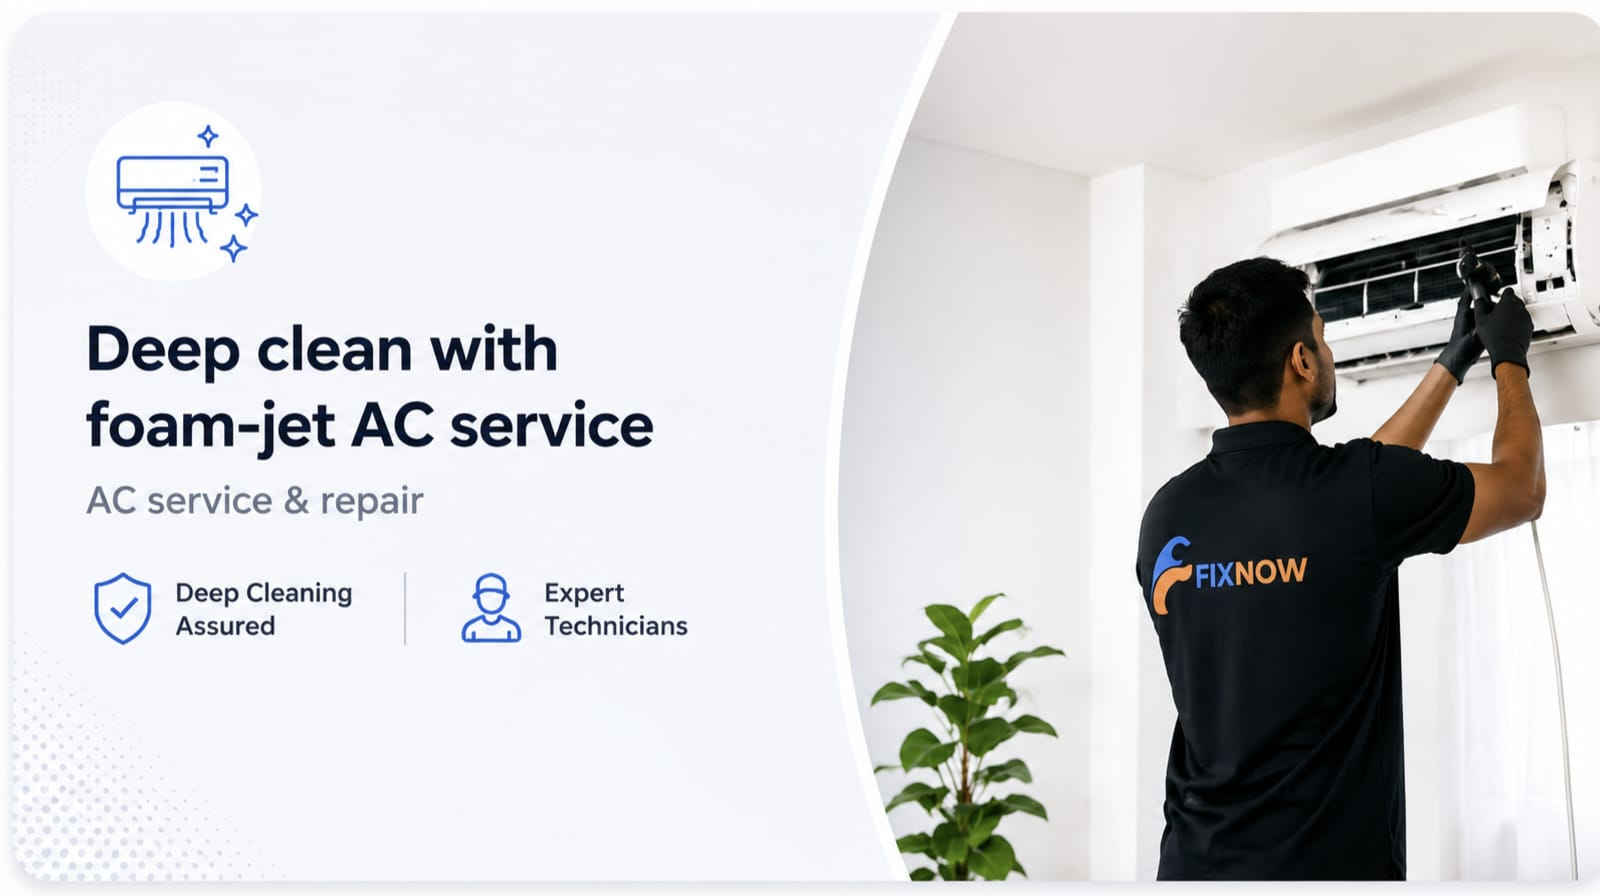
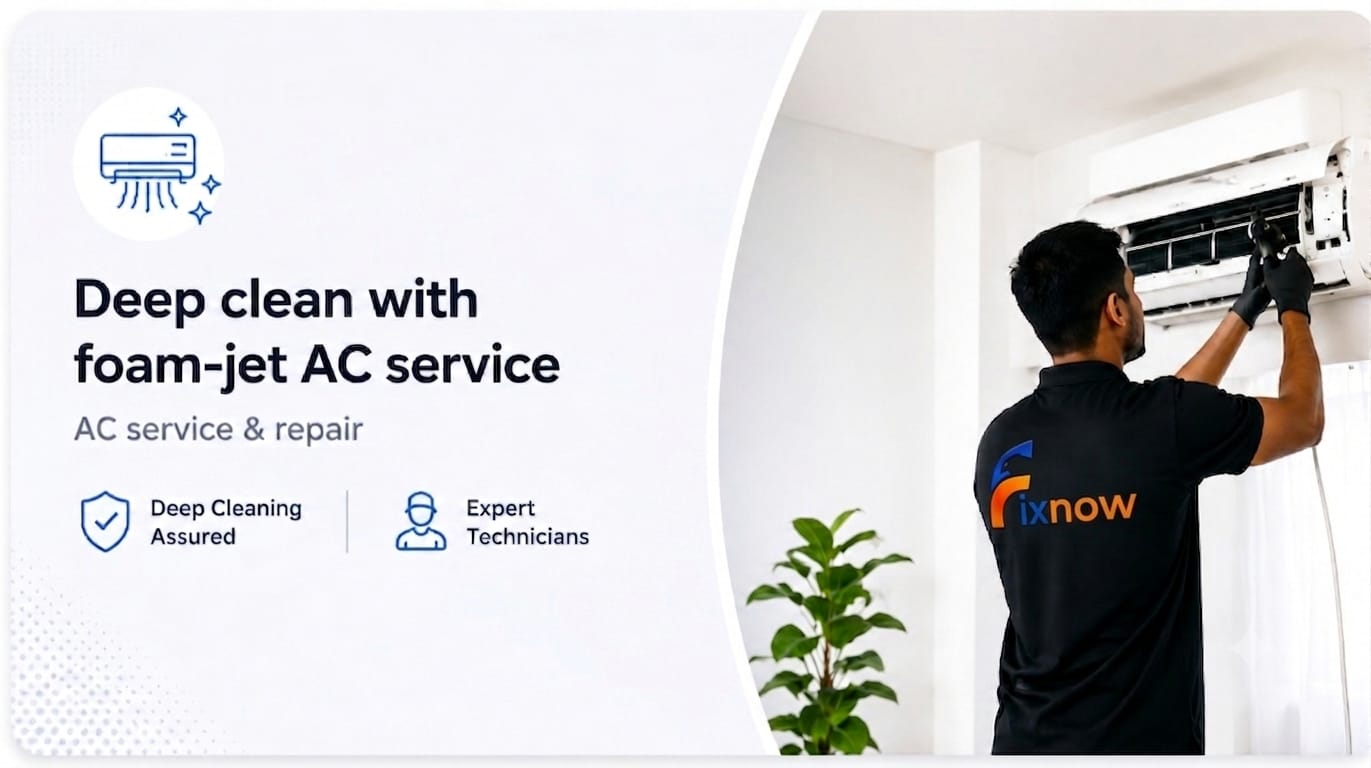
Updated website

diff --git a/index.html b/index.html
@@ -1363,14 +1363,14 @@
       <label>Service Needed</label>
       <select id="qService">
         <option value="">Choose a service…</option>
-        <option>AC Repair & Cleaning</option>
+        <opyion>AC General Service</opyion>
+        <option>AC Jet Wash</option>
+        <option>AC Full Service</option>
         <option>AC Installation</option>
         <option>Washing Machine Repair</option>
         <option>Refrigerator Service</option>
         <option>Water Heater Repair</option>
         <option>RO Water Purifier</option>
-        <option>Electrical Services</option>
-        <option>Microwave Repair</option>
       </select>
     </div>
     <div class="form-row">
@@ -1663,7 +1663,7 @@
 <div class="trust-strip">
   <div class="trust-inner">
     <div class="trust-item">
-      <span class="trust-num"><span class="counter" data-target="6500">0</span><span class="sup">+</span></span>
+      <span class="trust-num"><span class="counter" data-target="10000">0</span><span class="sup">+</span></span>
       <div class="trust-label">Happy Customers</div>
     </div>
     <div class="trust-item">
@@ -1671,7 +1671,7 @@
       <div class="trust-label">Years Experience</div>
     </div>
     <div class="trust-item">
-      <span class="trust-num"><span class="counter" data-target="50">0</span><span class="sup">+</span></span>
+      <span class="trust-num"><span class="counter" data-target="60">0</span><span class="sup">+</span></span>
       <div class="trust-label">Certified Technicians</div>
     </div>
     <div class="trust-item">
@@ -1738,21 +1738,21 @@
       <div class="pop-card reveal" style="transition-delay:.1s">
         <div class="pop-img" style="background:linear-gradient(135deg,#EFF4FF,#DBEAFE)">
            <img src="ac-repair-service-pop.jpeg" alt="AC Repair">
-          <span class="pop-img-badge">⚡ Same Day</span>
+          <span class="pop-img-badge">⚡Top Most Booked</span>
         </div>
         <div class="pop-body">
           <h3>AC Repair & Service</h3>
           <p>Gas refill, cooling issues, PCB problems, compressor service — all brands covered. Samsung, LG, Daikin, Voltas & more.</p>
           <div class="pop-meta">
             <div class="pop-price">₹299 <span>onwards</span></div>
-            <div class="pop-rating"><svg viewBox="0 0 24 24"><polygon points="12 2 15.09 8.26 22 9.27 17 14.14 18.18 21.02 12 17.77 5.82 21.02 7 14.14 2 9.27 8.91 8.26 12 2"/></svg> 4.9 (820 reviews)</div>
+            <div class="pop-rating"><svg viewBox="0 0 24 24"><polygon points="12 2 15.09 8.26 22 9.27 17 14.14 18.18 21.02 12 17.77 5.82 21.02 7 14.14 2 9.27 8.91 8.26 12 2"/></svg> 4.9 (1180 reviews)</div>
           </div>
           <button class="pop-cta" onclick="openPopup()">Book Now →</button>
         </div>
       </div>
       <div class="pop-card reveal" style="transition-delay:.2s">
         <div class="pop-img" style="background:linear-gradient(135deg,#F5F0FF,#EDE9FE)">
-           <img src="washing-machine-pop.png" alt="AC Repair">
+           <img src="washing-machine-pop.jpeg" alt="AC Repair">
           <span class="pop-img-badge">Most Booked</span>
         </div>
         <div class="pop-body">
@@ -1760,7 +1760,7 @@
           <p>Not draining, drum issues, motor problems, error codes — front load, top load, semi-automatic. All brands serviced.</p>
           <div class="pop-meta">
             <div class="pop-price">₹299 <span>onwards</span></div>
-            <div class="pop-rating"><svg viewBox="0 0 24 24"><polygon points="12 2 15.09 8.26 22 9.27 17 14.14 18.18 21.02 12 17.77 5.82 21.02 7 14.14 2 9.27 8.91 8.26 12 2"/></svg> 4.8 (640 reviews)</div>
+            <div class="pop-rating"><svg viewBox="0 0 24 24"><polygon points="12 2 15.09 8.26 22 9.27 17 14.14 18.18 21.02 12 17.77 5.82 21.02 7 14.14 2 9.27 8.91 8.26 12 2"/></svg> 4.8 (820 reviews)</div>
           </div>
           <button class="pop-cta" onclick="openPopup()">Book Now →</button>
         </div>
@@ -1775,14 +1775,14 @@
           <p>Not cooling, ice maker issues, water dispenser problems, compressor service. Single door, double door, side-by-side.</p>
           <div class="pop-meta">
             <div class="pop-price">₹349 <span>onwards</span></div>
-            <div class="pop-rating"><svg viewBox="0 0 24 24"><polygon points="12 2 15.09 8.26 22 9.27 17 14.14 18.18 21.02 12 17.77 5.82 21.02 7 14.14 2 9.27 8.91 8.26 12 2"/></svg> 4.9 (510 reviews)</div>
+            <div class="pop-rating"><svg viewBox="0 0 24 24"><polygon points="12 2 15.09 8.26 22 9.27 17 14.14 18.18 21.02 12 17.77 5.82 21.02 7 14.14 2 9.27 8.91 8.26 12 2"/></svg> 4.9 (648 reviews)</div>
           </div>
           <button class="pop-cta" onclick="openPopup()">Book Now →</button>
         </div>
       </div>
       <div class="pop-card reveal" style="transition-delay:.1s">
         <div class="pop-img" style="background:linear-gradient(135deg,#FFFBEB,#FEF3C7)">
-           <img src="water-heater-pop.png" alt="Water Heater">
+           <img src="water-heater-pop.jpeg" alt="Water Heater">
         </div>
         <div class="pop-body">
           <h3>Water Heater Repair</h3>
@@ -1796,7 +1796,7 @@
       </div>
       <div class="pop-card reveal" style="transition-delay:.2s">
         <div class="pop-img" style="background:linear-gradient(135deg,#FFF0EB,#FFE4D6)">
-          <img src="ro-water-purifier-pop.png" alt="RO Purifier">
+          <img src="ro-water-purifier-pop.jpeg" alt="RO Purifier">
         </div>
         <div class="pop-body">
           <h3>RO Water Purifier</h3>
@@ -1810,7 +1810,7 @@
       </div>
       <div class="pop-card reveal" style="transition-delay:.3s">
         <div class="pop-img" style="background:linear-gradient(135deg,#FFF0F0,#FFE4E4)">
-            <img src="ac-jet-wash-pop.png" alt="AC Jet Wash">
+            <img src="ac-jet-wash-pop.jpeg" alt="AC Jet Wash">
         </div>
         <div class="pop-body">
           <h3>AC Jet wash </h3>
@@ -1978,10 +1978,10 @@ Includes cooling check.</p>
         <div class="plan-price"><small>₹</small>249</div>
         <div class="plan-desc">Per visit for a single appliance. Pay only after you approve the quote.</div>
         <div class="plan-features">
-          <div class="plan-feat"><svg viewBox="0 0 24 24"><path d="M22 11.08V12a10 10 0 1 1-5.93-9.14"/><polyline points="22 4 12 14.01 9 11.01"/></svg> Free Diagnosis</div>
-          <div class="plan-feat"><svg viewBox="0 0 24 24"><path d="M22 11.08V12a10 10 0 1 1-5.93-9.14"/><polyline points="22 4 12 14.01 9 11.01"/></svg> 30-Day Warranty</div>
-          <div class="plan-feat"><svg viewBox="0 0 24 24"><path d="M22 11.08V12a10 10 0 1 1-5.93-9.14"/><polyline points="22 4 12 14.01 9 11.01"/></svg> Certified Technician</div>
-          <div class="plan-feat"><svg viewBox="0 0 24 24"><path d="M22 11.08V12a10 10 0 1 1-5.93-9.14"/><polyline points="22 4 12 14.01 9 11.01"/></svg> WhatsApp Support</div>
+          <div class="plan-feat"><svg viewBox="0 0 24 24"><path d="M22 11.08V12a10 10 0 1 1-5.93-9.14"/><polyline points="22 4 12 14.01 9 11.01"/></svg> checking AC Condition</div>
+          <div class="plan-feat"><svg viewBox="0 0 24 24"><path d="M22 11.08V12a10 10 0 1 1-5.93-9.14"/><polyline points="22 4 12 14.01 9 11.01"/></svg> Filter cleaning</div>
+          <div class="plan-feat"><svg viewBox="0 0 24 24"><path d="M22 11.08V12a10 10 0 1 1-5.93-9.14"/><polyline points="22 4 12 14.01 9 11.01"/></svg> Indoor Coil Dry Cleaning</div>
+          <div class="plan-feat"><svg viewBox="0 0 24 24"><path d="M22 11.08V12a10 10 0 1 1-5.93-9.14"/><polyline points="22 4 12 14.01 9 11.01"/></svg> Cooling Performance Checking</div>
         </div>
         <button class="plan-btn plan-btn-outline" onclick="openPopup()">Book This Plan</button>
       </div>
@@ -2005,7 +2005,7 @@ Includes cooling check.</p>
         <div class="plan-desc">Best value AC service with complete inspection and advanced jet wash cleaning,
 Includes cooling check, deep cleaning, and performance optimization for better efficiency..</div>
         <div class="plan-features">
-          <div class="plan-feat"><svg viewBox="0 0 24 24"><path d="M22 11.08V12a10 10 0 1 1-5.93-9.14"/><polyline points="22 4 12 14.01 9 11.01"/></svg> Unlimited Free Service Calls</div>
+          <div class="plan-feat"><svg viewBox="0 0 24 24"><path d="M22 11.08V12a10 10 0 1 1-5.93-9.14"/><polyline points="22 4 12 14.01 9 11.01"/></svg> Full service of indoor & Outdoor</div>
           <div class="plan-feat"><svg viewBox="0 0 24 24"><path d="M22 11.08V12a10 10 0 1 1-5.93-9.14"/><polyline points="22 4 12 14.01 9 11.01"/></svg> Complete AC Health Inspection</div>
           <div class="plan-feat"><svg viewBox="0 0 24 24"><path d="M22 11.08V12a10 10 0 1 1-5.93-9.14"/><polyline points="22 4 12 14.01 9 11.01"/></svg> Deep Cleaning</div>
           <div class="plan-feat"><svg viewBox="0 0 24 24"><path d="M22 11.08V12a10 10 0 1 1-5.93-9.14"/><polyline points="22 4 12 14.01 9 11.01"/></svg> 
@@ -2520,7 +2520,7 @@ Cooling Efficiency Testing</div>
 
   /* ════ QUICK QUOTE FORM → GOOGLE SHEET ════ */
   // PASTE your Google Apps Script Web App URL below (see setup guide).
-  const QUOTE_SHEET_URL = "https://script.google.com/macros/s/AKfycbwqmR-kETEiYdYhEjE_Ktv1079ZYwdBjqciOu027awlCLtzDO984tFt-_NlGJJM_RJnQg/exec";
+  const QUOTE_SHEET_URL = "https://script.google.com/macros/s/AKfycbz5nt6URbF-a8LfvhMzYBUk0hlGAQmjNl0eQW1QCgbqB-NYEl7Mny2GfYPlVggwPW8A/exec";
 
   function submitQuote() {
     const name    = document.getElementById('qName').value.trim();
@@ -2600,7 +2600,7 @@ Cooling Efficiency Testing</div>
 
     // We can't read the iframe's cross-origin response, so we optimistically confirm.
     setTimeout(() => {
-      const referralResult = saveBookingRecord({ name, phone, service, time, address, referralCode });
+      const referralResult = applyReferralIfAny({ phone, referralCode });
       status.textContent = referralResult
         ? '✅ Thank you! ₹100 referral discount applied. Our team will call you in 15 minutes. ☎'
         : '✅ Thank you! Our team will call you in 15 minutes. ☎';
@@ -2625,16 +2625,13 @@ Cooling Efficiency Testing</div>
   }
 </script>
 <script>
-  /* ════ SERVICE HISTORY + REFERRAL PROGRAM (localStorage-backed) ════ */
-  const BOOKINGS_KEY = 'fixnow_bookings';
+  /* ════ SERVICE HISTORY (Google Sheet-backed) + REFERRAL PROGRAM (localStorage-backed) ════ */
   const REFERRALS_KEY = 'fixnow_referral_data';
   let acctCurrentPhone = null;
+  let acctBookings = [];   // filled by fetchAccountBookings() — real data from the Sheet, not localStorage
 
   function normPhone(p) { return (p || '').replace(/\D/g, '').slice(-10); }
 
-  function loadBookings() {
-    try { return JSON.parse(localStorage.getItem(BOOKINGS_KEY)) || []; } catch (e) { return []; }
-  }
   function loadReferrals() {
     try { return JSON.parse(localStorage.getItem(REFERRALS_KEY)) || {}; } catch (e) { return {}; }
   }
@@ -2645,19 +2642,9 @@ Cooling Efficiency Testing</div>
     return 'FN' + (n ? n.slice(-4) : '0000');
   }
 
-  // Saves a booking to local history and applies a referral code if valid. Returns true if a discount was applied.
-  function saveBookingRecord({ name, phone, service, time, address, referralCode }) {
-    const bookings = loadBookings();
-    const bookedAt = new Date();
-    const warrantyUntil = new Date(bookedAt.getTime() + 90 * 24 * 60 * 60 * 1000);
-    bookings.unshift({
-      id: 'bk_' + Date.now(),
-      name, phone: normPhone(phone), service, time, address,
-      bookedAt: bookedAt.toISOString(),
-      warrantyUntil: warrantyUntil.toISOString()
-    });
-    localStorage.setItem(BOOKINGS_KEY, JSON.stringify(bookings));
-
+  // Applies a referral discount if the code is valid. Returns true if applied.
+  // (Actual booking history no longer lives in localStorage — it's fetched live from the Sheet.)
+  function applyReferralIfAny({ phone, referralCode }) {
     let discountApplied = false;
     const myPhone = normPhone(phone);
     const myCode = referralCodeFor(myPhone);
@@ -2666,7 +2653,6 @@ Cooling Efficiency Testing</div>
       if (!referrals[myPhone]) referrals[myPhone] = { referredCount: 0, redeemedCode: null };
       if (!referrals[myPhone].redeemedCode) {
         referrals[myPhone].redeemedCode = referralCode;
-        // Credit whoever owns that code, if we can find them among known accounts
         Object.keys(referrals).forEach(p => {
           if (referralCodeFor(p) === referralCode) {
             referrals[p].referredCount = (referrals[p].referredCount || 0) + 1;
@@ -2676,7 +2662,6 @@ Cooling Efficiency Testing</div>
         discountApplied = true;
       }
     }
-    // Ensure this phone has a referral record even with no redemption
     const referrals2 = loadReferrals();
     if (!referrals2[myPhone]) { referrals2[myPhone] = { referredCount: 0, redeemedCode: null }; saveReferrals(referrals2); }
     return discountApplied;
@@ -2690,10 +2675,20 @@ Cooling Efficiency Testing</div>
   }
   function switchAccount() {
     acctCurrentPhone = null;
+    acctBookings = [];
     document.getElementById('acctDashboard').style.display = 'none';
     document.getElementById('acctLookupStep').style.display = 'block';
     document.getElementById('acctPhone').value = '';
     document.getElementById('acctLookupMsg').textContent = '';
+  }
+
+  // Fetches this phone number's real bookings from the Google Sheet via the Apps Script doGet endpoint.
+  function fetchAccountBookings(phone) {
+    const url = QUOTE_SHEET_URL + '?phone=' + encodeURIComponent(phone);
+    return fetch(url).then(r => {
+      if (!r.ok) throw new Error('bad response');
+      return r.json();
+    });
   }
 
   function lookupAccount() {
@@ -2704,10 +2699,20 @@ Cooling Efficiency Testing</div>
       msg.style.color = '#C43F0E';
       return;
     }
-    acctCurrentPhone = phone;
-    document.getElementById('acctLookupStep').style.display = 'none';
-    document.getElementById('acctDashboard').style.display = 'block';
-    switchAccountTab('history');
+    msg.textContent = 'Looking up your bookings…';
+    msg.style.color = 'var(--text-muted)';
+
+    fetchAccountBookings(phone).then(data => {
+      acctCurrentPhone = phone;
+      acctBookings = Array.isArray(data) ? data : [];
+      msg.textContent = '';
+      document.getElementById('acctLookupStep').style.display = 'none';
+      document.getElementById('acctDashboard').style.display = 'block';
+      switchAccountTab('history');
+    }).catch(() => {
+      msg.textContent = '⚠ Could not reach FixNow servers — check your connection and try again.';
+      msg.style.color = '#C43F0E';
+    });
   }
 
   function switchAccountTab(tab) {
@@ -2723,9 +2728,10 @@ Cooling Efficiency Testing</div>
   }
 
   function buildReminderBanner(mine, now) {
-    // Reminder 1: warranty expiring within 14 days
+    // Reminder 1: warranty expiring within 14 days (only completed jobs have a warrantyTill at all)
     const soonExpiring = mine
-      .map(b => ({ b, warrantyDate: new Date(b.warrantyUntil) }))
+      .filter(b => b.warrantyTill)
+      .map(b => ({ b, warrantyDate: new Date(b.warrantyTill) }))
       .filter(x => x.warrantyDate > now && (x.warrantyDate - now) < 14 * 24 * 60 * 60 * 1000)
       .sort((a, c) => a.warrantyDate - c.warrantyDate)[0];
 
@@ -2751,7 +2757,7 @@ Cooling Efficiency Testing</div>
 
   function renderHistory() {
     const box = document.getElementById('tabHistory');
-    const mine = loadBookings().filter(b => b.phone === acctCurrentPhone);
+    const mine = acctBookings;
     if (!mine.length) {
       box.innerHTML = '<div class="acct-empty">No bookings yet under this number.<br>Book your first service to see it here!<br>' +
         '<button class="form-submit" style="margin-top:14px;width:auto;padding:10px 22px" onclick="closeAccountPanel();openPopup()">Book a Service</button></div>';
@@ -2760,16 +2766,28 @@ Cooling Efficiency Testing</div>
     const now = new Date();
     const reminderHtml = buildReminderBanner(mine, now);
     box.innerHTML = reminderHtml + mine.map(b => {
-      const warrantyDate = new Date(b.warrantyUntil);
-      const active = warrantyDate > now;
       const dateStr = new Date(b.bookedAt).toLocaleDateString('en-IN', { day:'numeric', month:'short', year:'numeric' });
-      const warrantyStr = active
-        ? 'Warranty till ' + warrantyDate.toLocaleDateString('en-IN', { day:'numeric', month:'short' })
-        : 'Warranty expired';
+      const status = b.status || 'Requested';
+
+      let statusHtml;
+      if (status === 'Completed' && b.warrantyTill) {
+        const warrantyDate = new Date(b.warrantyTill);
+        const active = warrantyDate > now;
+        const warrantyStr = active
+          ? 'Warranty till ' + warrantyDate.toLocaleDateString('en-IN', { day:'numeric', month:'short' })
+          : 'Warranty expired';
+        statusHtml = '<span class="ahi-warranty ' + (active ? 'active' : 'expired') + '">' + warrantyStr + '</span>';
+      } else if (status === 'Assigned') {
+        statusHtml = '<span class="ahi-warranty" style="background:#fef3c7;color:#b45309">' +
+          (b.technician ? 'Technician: ' + b.technician : 'Technician assigned') + '</span>';
+      } else {
+        statusHtml = '<span class="ahi-warranty" style="background:#f1f5f9;color:#475569">Requested — awaiting confirmation</span>';
+      }
+
       return '<div class="acct-history-item">' +
         '<span class="ahi-icon"><svg viewBox="0 0 24 24"><path d="M14.7 6.3a1 1 0 000 1.4l1.6 1.6a1 1 0 001.4 0l3.4-3.4a4 4 0 01-5.6 5.6L6.6 20.4a2 2 0 01-2.8-2.8L12.7 8.7a4 4 0 015.6-5.6l-3.4 3.4z"/></svg></span>' +
         '<div class="ahi-main"><div class="ahi-service">' + b.service + '</div><div class="ahi-date">' + dateStr + (b.address ? ' · ' + b.address : '') + '</div></div>' +
-        '<span class="ahi-warranty ' + (active ? 'active' : 'expired') + '">' + warrantyStr + '</span>' +
+        statusHtml +
       '</div>';
     }).join('');
   }
@@ -2796,7 +2814,7 @@ Cooling Efficiency Testing</div>
 
   function renderLoyalty() {
     const box = document.getElementById('tabLoyalty');
-    const count = loadBookings().filter(b => b.phone === acctCurrentPhone).length;
+    const count = acctBookings.length;
     const tierIdx = tierIndexForCount(count);
     const tier = loyaltyTiers[tierIdx];
     const nextTier = loyaltyTiers[tierIdx + 1];
@@ -2900,12 +2918,12 @@ Cooling Efficiency Testing</div>
       options: [
         { label: "AC", result: "ac_electrical" },
         { label: "Washing machine", result: "wm_general" },
-        { label: "Water heater / Geyser", result: "geyser_service" }
+        { label: "Refrigerator", result: "Fridge" }
       ]
     }
   };
   const diagResults = {
-    ac_gas_noise: { title: "Likely low refrigerant + a loose part", service: "AC Repair & Cleaning", price: "From ₹349", note: "Noise plus poor cooling usually means a gas top-up along with a quick tightening check." },
+    ac_gas_noise: { title: "Likely low refrigerant + a loose part", service: "AC Repair & Cleaning", price: "From ₹249", note: "Noise plus poor cooling usually means a gas top-up along with a quick tightening check." },
     ac_gas: { title: "Likely low refrigerant gas", service: "AC Repair & Cleaning", price: "From ₹249", note: "Cooling drops off gradually when gas runs low — a refill usually fixes it." },
     ac_general: { title: "Needs a deep clean & service", service: "AC Repair & Cleaning", price: "From ₹249", note: "A noisy AC unit is often just due for a filter and coil clean." },
     wm_general: { title: "Needs a technician visit", service: "Washing Machine Repair", price: "From ₹249", note: "Could be a belt, bearing, or drain issue — best diagnosed on-site." },
